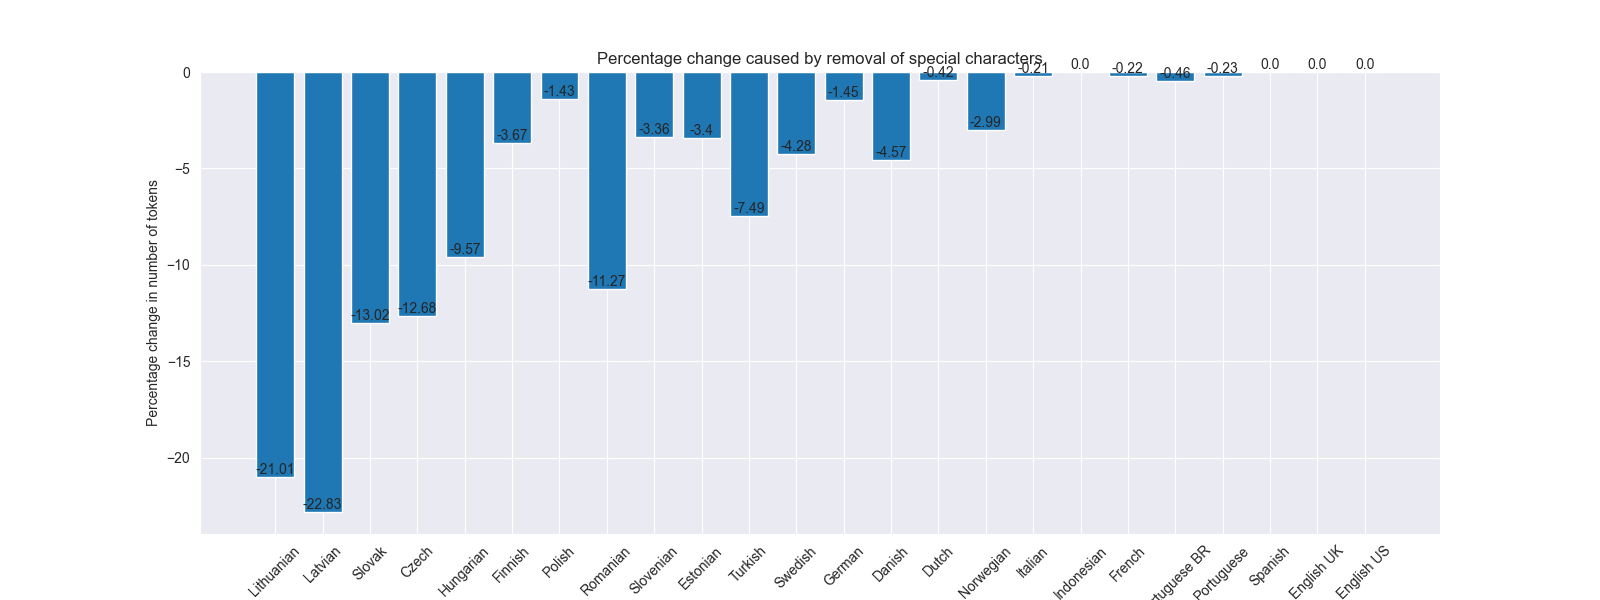
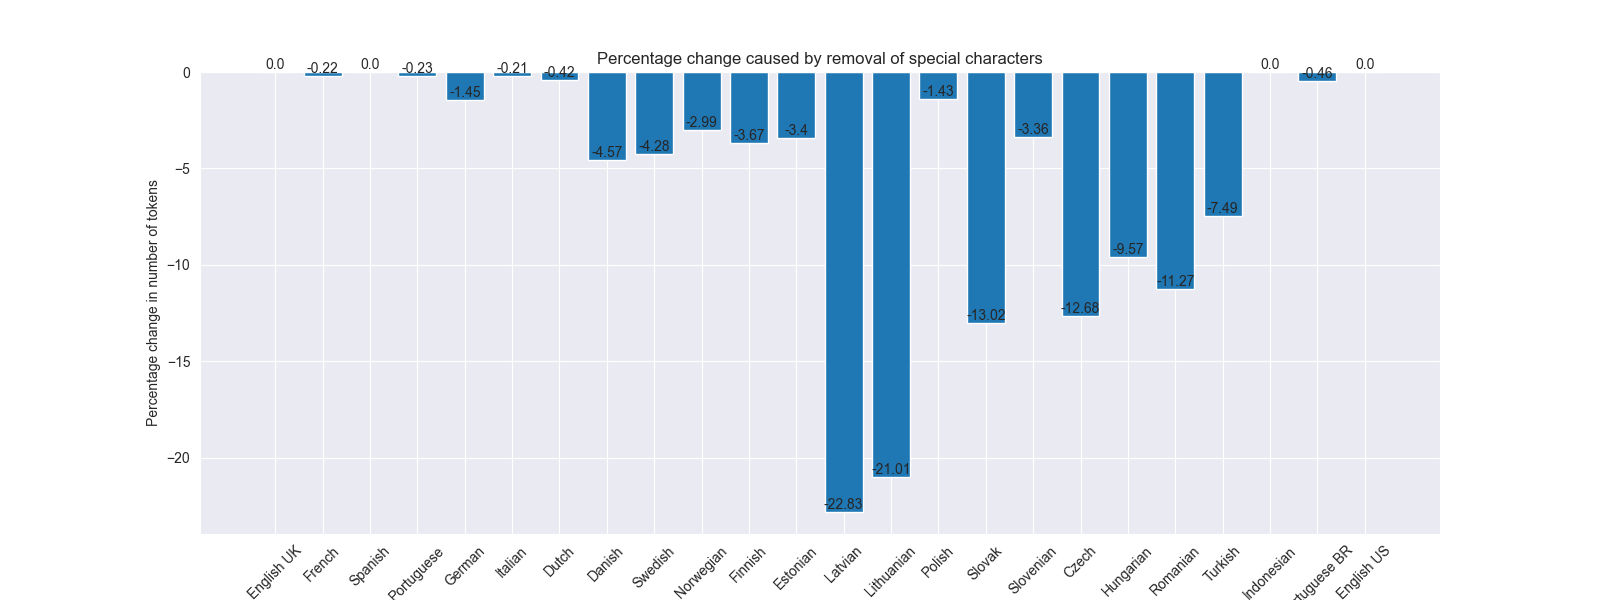
Update texts

diff --git a/README.md b/README.md
@@ -4,6 +4,12 @@
 
 ## Source text
 
+I took two texts and translated them into various languages. 
+First text is sample of wikipedia article about [Strawberry](https://en.wikipedia.org/wiki/Strawberry) and second is about [Saturn V](https://en.wikipedia.org/wiki/Saturn_V). 
+Below you can see samples of such translations.  
+
+Languages are analysed on order as they are on Earth. English-UK being the first, follwed by France etc.  
+
 <table>
 <tr align="center">
   <td>Strawberry 🍓</td>
@@ -45,6 +51,8 @@
 
 ## Tokens
 
+I analysed number of GPT tokens needed to represent input text in various languages. 
+
 #### Lessons learned
 
 * 🇬🇷 needs the most number of tokens from all languages
@@ -62,18 +70,20 @@
 </tr>
 </table>
 
-## Number of tokens used with special characters removed
+## Number of tokens used with diacritic removed
 
+I analysed how many GPT tokens can be saved when we remove diacritic.
+
+Some languages are affected more than others: 
 * 🇩🇪 `Gesamtmenge führend war` ➡ `Gesamtmenge fuhrend war`
 * 🇱🇹 `Sodinės braškės pirmą kartą` ➡ `Sodines braskes pirma karta`
 * 🇬🇷 `Η φράουλα κήπου (ή απλά φράουλα, Fragaria × ananassa)` ➡ `   (  , Fragaria  ananassa)`
-    * As you can see this process does not make sanse for some languages
+    * As you can see this process does not make sense for some languages
 
 #### Lessons learned
 
-* aaa
-* bbb
-* ccc
+* Nothing remains from text translated to asian languages
+* Most European languages are mostly unaffected
 
 <table>
 <tr align="center">
@@ -93,9 +103,8 @@ For better readability I have removed languages which can't be easily converted 
 
 #### Lessons learned
 
-* aaa
-* bbb
-* ccc
+* Lithuanian and Latvian languages are affected the most
+* German is affected very little
 
 <table>
 <tr align="center">
@@ -112,13 +121,14 @@ For better readability I have removed languages which can't be easily converted 
 
 ## Embeddings
 
-In following examples I have computed ADA embeddings for multiple languages anc dompared them with Cosine similarity.
+In following examples I have computed ADA embeddings for multiple languages and compared them with Cosine similarity.
 
 ### Comparing cosine similarity between languages
 
 #### Lessons learned
 
-* 🇰🇷 has the lowest similarity across all languages
+* 🇰🇷 has the lowest similarity across all languages in text about Strawberry
+* Asian languages have big distance with other languages in text about Saturn V
 * 🇳🇴 and 🇩🇰 is very close
     * 🇳🇴 `Hagejordbæret ble først foredlet frem i Bretagne`
     * 🇩🇰 `Havejordbærret blev først avlet i Bretagne`
@@ -137,7 +147,9 @@ In following examples I have computed ADA embeddings for multiple languages anc 
 </tr>
 </table>
 
-### Comparing cosine similarity between languages but with special characters removed
+### Comparing cosine similarity between languages but with diacritic removed
+
+I analysed how much embeddings differ if we remove diacritic 
 
 #### Lessons learned
 
@@ -158,21 +170,35 @@ In following examples I have computed ADA embeddings for multiple languages anc 
 
 ### Comparing cosine similarity between same text with and without special characters
 
+Here you can see the difference between Cosine similarity with embeddings computed
+on original texts which contain diacritic and embeddings computed on texts with diacritic removed.
+
 #### Lessons learned
 
-* aaa
-* bbb
-* ccc
+* Latvian is affected the most
+* Different texts are affected differently
 
-![](matrix_relationship_matrix_no_special_chars_diff.png)
+<table>
+<tr align="center">
+  <td>Strawberry 🍓</td>
+  <td>Saturn 🚀</td>
+</tr>
+<tr>
+  <td><img src="strawberry/matrix_relationship_matrix_no_special_chars_diff.png"></td>
+  <td><img src="saturn/matrix_relationship_matrix_no_special_chars_diff.png"></td>
+</tr>
+</table>
 
 ### Comparing cosine similarity between completely different texts
 
+Here I compared embeddings of text about Strawberry with text about Saturn V
+to check what could be the maximum difference.
+
 #### Lessons learned
 
-* aaa
-* bbb
-* ccc
+* No language has zero distance to different texts
+* English has the lowest values
+* European languages have higher values
 
 ![](matrix_relationship_matrix_different_texts.png)
 
